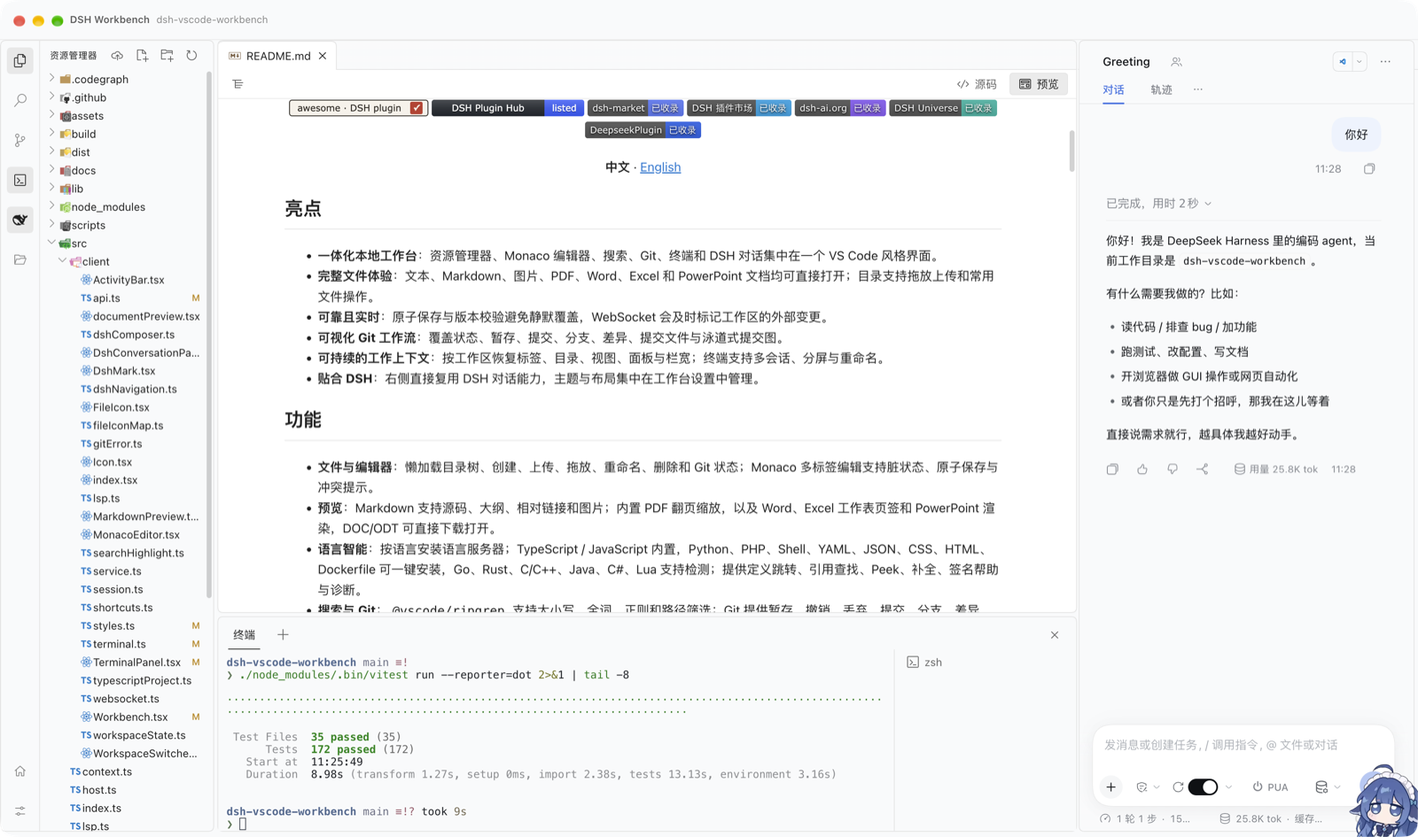
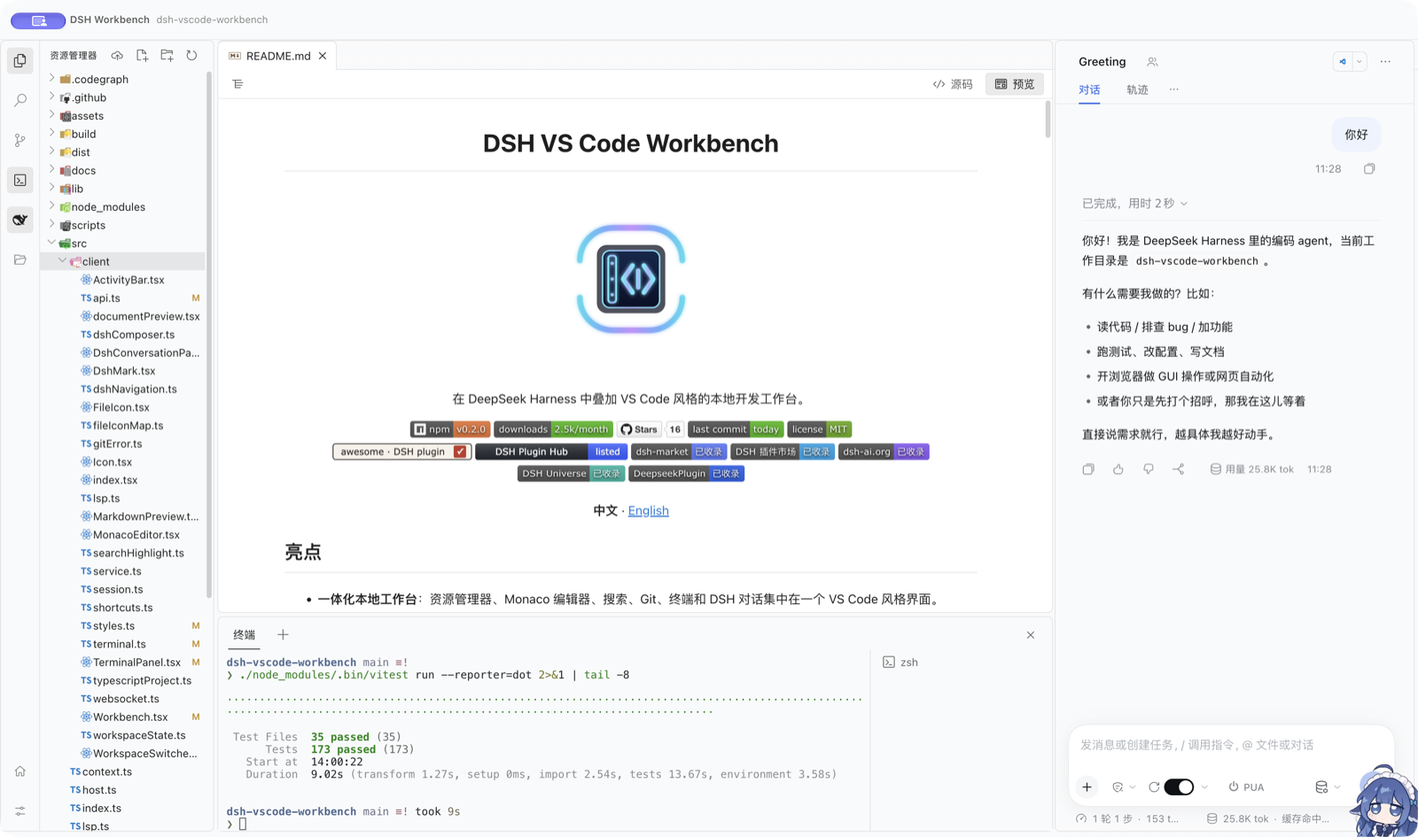
fix(workbench): stabilize session startup and narrow DSH layout
- retry terminal calls while DSH publishes the selected session
- keep the DSH composer, resizer and status bar aligned at narrow widths
- align the workbench and DSH panel with the macOS titlebar
- leave language-server installation to settings
- refresh README screenshots with the file scrolled to the top

diff --git a/src/client/Workbench.tsx b/src/client/Workbench.tsx
@@ -14,7 +14,7 @@ import { DshMark } from './DshMark.tsx'
 import { ActivityBar, normalizeActivityOrder, type ActivityView } from './ActivityBar.tsx'
 import { WorkspaceSwitcher } from './WorkspaceSwitcher.tsx'
 import type { DshNavigation, WorkspaceChoice } from './dshNavigation.ts'
-import { LspManager, languageServerIdForPath, type LspServerStatus } from './lsp.ts'
+import { LspManager, type LspServerStatus } from './lsp.ts'
 import { TS_INTELLISENSE_KEY, disposeTypeScriptProject, indexTypeScriptProject, refreshIndexedFiles, tsIntellisenseEnabled, workspacePathFromModel } from './typescriptProject.ts'
 import { ADD_TO_DSH_SHORTCUT, dshReference, insertIntoDshComposer, isAddToDshShortcut } from './dshComposer.ts'
 import { DocumentPreview, documentPreviewKind, type DocumentPreviewKind } from './documentPreview.tsx'
@@ -28,6 +28,16 @@ interface TreeProps { sessionId: string; path: string; depth: number; expanded: 
 interface CreatingEntry { kind: 'file' | 'directory'; directory: string; value: string; error?: string }
 
 type ResizeDirection = 1 | -1
+
+export const DSH_CHAT_MIN_WIDTH = 440
+export const DSH_CHAT_MAX_WIDTH = 720
+export const DSH_CHAT_DEFAULT_WIDTH = 440
+
+/** Keep persisted or dragged widths inside the range the DSH composer can lay out cleanly. */
+export function clampChatWidth(width: number): number {
+  if (!Number.isFinite(width)) return DSH_CHAT_DEFAULT_WIDTH
+  return Math.max(DSH_CHAT_MIN_WIDTH, Math.min(DSH_CHAT_MAX_WIDTH, Math.round(width)))
+}
 
 /** Calculate a panel width from a horizontal pointer movement. */
 export function resizedPanelWidth(startWidth: number, startX: number, nextX: number, direction: ResizeDirection, min: number, max: number): number {
@@ -414,7 +424,7 @@ const GitView = memo(Git)
 export function Workbench({ service, sessionId, cwd, navigation }: { service: VscodeWorkbench; sessionId?: string; cwd?: string; navigation?: DshNavigation }) {
   const [snapshot, setSnapshot] = useState(() => service.getSnapshot()); const [panels, setPanels] = useState(() => service.getPanels())
   useEffect(() => service.subscribe(() => { setSnapshot(service.getSnapshot()); setPanels(service.getPanels()) }), [service])
-  const [workspace,setWorkspace]=useState<{cwd:string;name:string}>(); const [tabs,setTabs]=useState<Tab[]>([]); const [active,setActive]=useState<string>(); const [error,setError]=useState<string>(); const [panelHeight,setPanelHeight]=useState(260); const [sideWidth,setSideWidth]=useState(210); const [primarySideVisible,setPrimarySideVisible]=useState(()=>localStorage.getItem('dvw:primary-side-visible')!=='closed');const [statusVisible,setStatusVisible]=useState(()=>localStorage.getItem('dvw:status-bar-visible')==='open');const [settingsOpen,setSettingsOpen]=useState(false);const [chatWidth,setChatWidth]=useState(()=>Math.max(400,Math.min(720,Math.round(Number(localStorage.getItem('dvw:dsh-chat-width'))||420))));const [chatVisible,setChatVisible]=useState(()=>localStorage.getItem('dvw:dsh-chat-visible')!=='closed');const [outlineVisible,setOutlineVisible]=useState(()=>localStorage.getItem('dvw:outline')!=='closed');const [tsIntellisense,setTsIntellisense]=useState(tsIntellisenseEnabled);const [tsIndex,setTsIndex]=useState<{state:'idle'|'loading'|'ready'|'error';files?:number;truncated?:boolean;error?:string}>({state:'idle'});const [lspServers,setLspServers]=useState<LspServerStatus[]>([]);const [lspPrompt,setLspPrompt]=useState<{id:string;name:string;builtin:boolean;installable:boolean;hint?:string}>();const dismissedLsp=useRef(new Set<string>());const [lspBusy,setLspBusy]=useState<string>();const [lspError,setLspError]=useState('');const lspManager=useRef<LspManager>();const [fontSize,setFontSize]=useState(()=>{const saved=Math.round(Number(localStorage.getItem('dvw:font-size')));return Number.isFinite(saved)&&saved>=11&&saved<=20?saved:14});const [tabMenu,setTabMenu]=useState<{x:number;y:number;path:string}>()
+  const [workspace,setWorkspace]=useState<{cwd:string;name:string}>(); const [tabs,setTabs]=useState<Tab[]>([]); const [active,setActive]=useState<string>(); const [error,setError]=useState<string>(); const [panelHeight,setPanelHeight]=useState(260); const [sideWidth,setSideWidth]=useState(210); const [primarySideVisible,setPrimarySideVisible]=useState(()=>localStorage.getItem('dvw:primary-side-visible')!=='closed');const [statusVisible,setStatusVisible]=useState(()=>localStorage.getItem('dvw:status-bar-visible')==='open');const [settingsOpen,setSettingsOpen]=useState(false);const [chatWidth,setChatWidth]=useState(()=>clampChatWidth(Number(localStorage.getItem('dvw:dsh-chat-width'))||DSH_CHAT_DEFAULT_WIDTH));const [chatVisible,setChatVisible]=useState(()=>localStorage.getItem('dvw:dsh-chat-visible')!=='closed');const [outlineVisible,setOutlineVisible]=useState(()=>localStorage.getItem('dvw:outline')!=='closed');const [tsIntellisense,setTsIntellisense]=useState(tsIntellisenseEnabled);const [tsIndex,setTsIndex]=useState<{state:'idle'|'loading'|'ready'|'error';files?:number;truncated?:boolean;error?:string}>({state:'idle'});const [lspServers,setLspServers]=useState<LspServerStatus[]>([]);const [lspBusy,setLspBusy]=useState<string>();const [lspError,setLspError]=useState('');const lspManager=useRef<LspManager>();const [fontSize,setFontSize]=useState(()=>{const saved=Math.round(Number(localStorage.getItem('dvw:font-size')));return Number.isFinite(saved)&&saved>=11&&saved<=20?saved:14});const [tabMenu,setTabMenu]=useState<{x:number;y:number;path:string}>()
   const tabsRef=useRef(tabs);tabsRef.current=tabs
   const tabListRef=useRef<HTMLDivElement>(null)
   const workspaceRequests=useRef(new WorkspaceRequestScope());const loadedWorkspaceCwd=useRef<string>();const loadingTabs=useRef(new Map<string, symbol>())
@@ -573,24 +583,6 @@ export function Workbench({ service, sessionId, cwd, navigation }: { service: Vs
   // Stable handlers let the memoised side views skip re-rendering while the editor types.
   const openRef=useRef(open);openRef.current=open
   const openPath=useCallback((path:string,line?:number,column?:number,highlight?:string)=>openRef.current(path,line,column,highlight),[])
-  // Offer to install the language service that handles the file being opened.
-  useEffect(()=>{
-    if(active===undefined||active.startsWith('diff:'))return
-    const id=languageServerIdForPath(active)
-    if(id===undefined||dismissedLsp.current.has(id))return
-    if(id==='typescript'){ if(!tsIntellisense)setLspPrompt({id:'typescript',name:'TypeScript / JavaScript',builtin:true,installable:true}); return }
-    const server=lspServers.find(value=>value.id===id)
-    if(server===undefined||server.installed)return
-    setLspPrompt({id:server.id,name:server.name,builtin:false,installable:server.installable,hint:server.hint})
-  },[active,lspServers,tsIntellisense])
-  const dismissLspPrompt=()=>{ if(lspPrompt!==undefined)dismissedLsp.current.add(lspPrompt.id); setLspPrompt(undefined) }
-  const installLspPrompt=async()=>{
-    const prompt=lspPrompt; if(prompt===undefined)return
-    setLspPrompt(undefined)
-    if(prompt.builtin){setTsIntellisense(true);return}
-    if(!prompt.installable){setSettingsOpen(true);return}
-    await changeLsp(prompt.id,'install')
-  }
   const [switcherOpen,setSwitcherOpen]=useState(false);const [switcherChoices,setSwitcherChoices]=useState<WorkspaceChoice[]>([]);const [switcherBusy,setSwitcherBusy]=useState(false);const [switcherError,setSwitcherError]=useState<string>()
   const openSwitcher=useCallback(()=>{setSwitcherError(undefined);setSwitcherChoices(navigation?.choices(sessionId)??[]);setSwitcherOpen(true)},[navigation,sessionId])
   const switchSession=useCallback((id:string)=>{navigation?.openSession(id);setSwitcherOpen(false)},[navigation])
@@ -685,10 +677,9 @@ export function Workbench({ service, sessionId, cwd, navigation }: { service: Vs
     <WorkbenchTitlebar name={workspace?.name}/>
     <DshConversationPanel visible={chatVisible&&!settingsOpen} width={chatWidth} statusHeight={statusVisible?30:6}/>
     <DshConversationTheme visible={chatVisible} colorScheme={colorScheme} followDsh={false}/>
-    {chatVisible&&<aside className="dvw-chat"><PanelResizer className="dvw-chat-resizer" label="拖动调整 DSH 对话栏宽度" width={chatWidth} min={400} max={720} defaultWidth={420} direction={-1} hideBelow={200} onHide={()=>setChatVisible(false)} onWidth={setChatWidth}/><header className="dvw-chat-head"><span><DshMark/> DSH</span><button className="dvw-icon" title="关闭 DSH 对话栏" onClick={()=>setChatVisible(false)}><Icon name="close"/></button></header><div className="dvw-chat-body"/></aside>}
-    {lspPrompt!==undefined&&<div className="dvw-confirm-backdrop" role="presentation" onMouseDown={dismissLspPrompt}><section className="dvw-confirm" role="alertdialog" aria-modal="true" aria-label="语言未安装" onMouseDown={event=>event.stopPropagation()}><h2>语言未安装</h2><p>{lspPrompt.name} 的语言服务尚未安装。</p><p className="dvw-confirm-note">{lspPrompt.installable?'安装后才能使用转到定义、查找引用、Peek、智能补全和签名帮助。':lspPrompt.hint??'该语言服务器需要手动安装。'}</p><footer><button onClick={dismissLspPrompt}>以后再说</button><button className="dvw-primary-button" onClick={()=>void installLspPrompt()}>{lspPrompt.installable?'安装':'打开设置'}</button></footer></section></div>}
+    {chatVisible&&<aside className="dvw-chat"><PanelResizer className="dvw-chat-resizer" label="拖动调整 DSH 对话栏宽度" width={chatWidth} min={DSH_CHAT_MIN_WIDTH} max={DSH_CHAT_MAX_WIDTH} defaultWidth={DSH_CHAT_DEFAULT_WIDTH} direction={-1} hideBelow={200} onHide={()=>setChatVisible(false)} onWidth={setChatWidth}/><header className="dvw-chat-head"><span><DshMark/> DSH</span><button className="dvw-icon" title="关闭 DSH 对话栏" onClick={()=>setChatVisible(false)}><Icon name="close"/></button></header><div className="dvw-chat-body"/></aside>}
     {switcherOpen&&<WorkspaceSwitcher choices={switcherChoices} activeSessionId={sessionId} unavailable={navigation?.available===false} busy={switcherBusy} error={switcherError} onCreate={()=>void createWorkspace()} onSwitch={switchSession} onOpenWorkspace={enterWorkspace} onClose={()=>setSwitcherOpen(false)}/>}
-    {settingsOpen&&<div className="dvw-settings-backdrop" role="presentation" onMouseDown={()=>setSettingsOpen(false)}><section className="dvw-settings" role="dialog" aria-modal="true" aria-label="工作台设置" onMouseDown={event=>event.stopPropagation()}><header><span><Icon name="settings"/> 工作台设置</span><button className="dvw-icon" title="关闭设置" onClick={()=>setSettingsOpen(false)}><Icon name="close"/></button></header><div className="dvw-settings-body"><section><h3>外观</h3><label>颜色主题</label><div className="dvw-settings-themes">{([['dsh','跟随 DSH'],['dark','深色'],['light','浅色']] as const).map(([value,label])=><button key={value} data-active={theme===value} onClick={()=>setTheme(value)}><span className={`dvw-theme-swatch ${value}`}/><span>{label}</span>{theme===value&&<Icon name="check"/>}</button>)}</div><FontSizeControl value={fontSize} onChange={setFontSize}/></section><section><h3>布局</h3><label className="dvw-setting-check"><input type="checkbox" checked={primarySideVisible} onChange={event=>setPrimarySideVisible(event.target.checked)}/><span>显示左侧视图</span></label><label className="dvw-setting-check"><input type="checkbox" checked={chatVisible} onChange={event=>setChatVisible(event.target.checked)}/><span>显示 DSH 对话栏</span></label><label className="dvw-setting-check"><input type="checkbox" checked={statusVisible} onChange={event=>setStatusVisible(event.target.checked)}/><span>显示底部状态栏</span></label><label className="dvw-setting-range"><span>左侧视图宽度</span><input type="range" min="210" max="640" step="1" value={Math.round(sideWidth)} onChange={event=>setSideWidth(Math.round(Number(event.target.value)))}/><output>{sideWidth}px</output></label><label className="dvw-setting-range"><span>DSH 对话栏宽度</span><input type="range" min="400" max="720" step="1" value={Math.round(chatWidth)} onChange={event=>setChatWidth(Math.max(400,Math.round(Number(event.target.value))))}/><output>{chatWidth}px</output></label></section><section><h3>语言智能</h3><div className="dvw-setting-extension"><div><strong>TypeScript / JavaScript</strong><span>内置 · {tsIntellisense ? tsIndex.state === 'loading' ? '正在索引工作区…' : tsIndex.state === 'error' ? `索引失败：${tsIndex.error}` : tsIndex.state === 'ready' ? `已索引 ${tsIndex.files} 个文件${tsIndex.truncated ? '（已达上限）' : ''}` : '已安装，转到定义、查找引用、Peek、补全、签名帮助' : '点击安装'}</span></div><button className={tsIntellisense?undefined:'dvw-primary-button'} onClick={()=>setTsIntellisense(value=>!value)}>{tsIntellisense?'卸载':'安装'}</button></div>{lspServers.map(server=><div className="dvw-setting-extension" key={server.id}><div><strong>{server.name}</strong><span>{server.installed?'已安装':server.installable?'点击安装':'需要手动安装'}{!server.installed&&server.hint?` · ${server.hint}`:''}</span></div>{server.installable?<button disabled={lspBusy===server.id} className={server.installed?undefined:'dvw-primary-button'} onClick={()=>void changeLsp(server.id,server.installed?'uninstall':'install')}>{lspBusy===server.id?'处理中…':server.installed?'卸载':'安装'}</button>:<button onClick={()=>void refreshLsp()}>重新检测</button>}</div>)}<p className="dvw-setting-hint">每种语言使用该生态里最活跃的语言服务器，安装只写入本插件的私有目录。安装后在编辑器中 F12 转到定义、Shift+F12 查找引用、Alt+F12 速览、Ctrl+Space 补全，并显示诊断。</p>{lspError&&<p className="dvw-setting-hint">{lspError}</p>}</section></div></section></div>}
+    {settingsOpen&&<div className="dvw-settings-backdrop" role="presentation" onMouseDown={()=>setSettingsOpen(false)}><section className="dvw-settings" role="dialog" aria-modal="true" aria-label="工作台设置" onMouseDown={event=>event.stopPropagation()}><header><span><Icon name="settings"/> 工作台设置</span><button className="dvw-icon" title="关闭设置" onClick={()=>setSettingsOpen(false)}><Icon name="close"/></button></header><div className="dvw-settings-body"><section><h3>外观</h3><label>颜色主题</label><div className="dvw-settings-themes">{([['dsh','跟随 DSH'],['dark','深色'],['light','浅色']] as const).map(([value,label])=><button key={value} data-active={theme===value} onClick={()=>setTheme(value)}><span className={`dvw-theme-swatch ${value}`}/><span>{label}</span>{theme===value&&<Icon name="check"/>}</button>)}</div><FontSizeControl value={fontSize} onChange={setFontSize}/></section><section><h3>布局</h3><label className="dvw-setting-check"><input type="checkbox" checked={primarySideVisible} onChange={event=>setPrimarySideVisible(event.target.checked)}/><span>显示左侧视图</span></label><label className="dvw-setting-check"><input type="checkbox" checked={chatVisible} onChange={event=>setChatVisible(event.target.checked)}/><span>显示 DSH 对话栏</span></label><label className="dvw-setting-check"><input type="checkbox" checked={statusVisible} onChange={event=>setStatusVisible(event.target.checked)}/><span>显示底部状态栏</span></label><label className="dvw-setting-range"><span>左侧视图宽度</span><input type="range" min="210" max="640" step="1" value={Math.round(sideWidth)} onChange={event=>setSideWidth(Math.round(Number(event.target.value)))}/><output>{sideWidth}px</output></label><label className="dvw-setting-range"><span>DSH 对话栏宽度</span><input type="range" min={DSH_CHAT_MIN_WIDTH} max={DSH_CHAT_MAX_WIDTH} step="1" value={Math.round(chatWidth)} onChange={event=>setChatWidth(clampChatWidth(Number(event.target.value)))}/><output>{chatWidth}px</output></label></section><section><h3>语言智能</h3><div className="dvw-setting-extension"><div><strong>TypeScript / JavaScript</strong><span>内置 · {tsIntellisense ? tsIndex.state === 'loading' ? '正在索引工作区…' : tsIndex.state === 'error' ? `索引失败：${tsIndex.error}` : tsIndex.state === 'ready' ? `已索引 ${tsIndex.files} 个文件${tsIndex.truncated ? '（已达上限）' : ''}` : '已安装，转到定义、查找引用、Peek、补全、签名帮助' : '点击安装'}</span></div><button className={tsIntellisense?undefined:'dvw-primary-button'} onClick={()=>setTsIntellisense(value=>!value)}>{tsIntellisense?'卸载':'安装'}</button></div>{lspServers.map(server=><div className="dvw-setting-extension" key={server.id}><div><strong>{server.name}</strong><span>{server.installed?'已安装':server.installable?'点击安装':'需要手动安装'}{!server.installed&&server.hint?` · ${server.hint}`:''}</span></div>{server.installable?<button disabled={lspBusy===server.id} className={server.installed?undefined:'dvw-primary-button'} onClick={()=>void changeLsp(server.id,server.installed?'uninstall':'install')}>{lspBusy===server.id?'处理中…':server.installed?'卸载':'安装'}</button>:<button onClick={()=>void refreshLsp()}>重新检测</button>}</div>)}<p className="dvw-setting-hint">每种语言使用该生态里最活跃的语言服务器，安装只写入本插件的私有目录。安装后在编辑器中 F12 转到定义、Shift+F12 查找引用、Alt+F12 速览、Ctrl+Space 补全，并显示诊断。</p>{lspError&&<p className="dvw-setting-hint">{lspError}</p>}</section></div></section></div>}
           <ActivityBar
         views={[
           {id:'explorer',label:'资源管理器',icon:<Icon name="files"/>,active:primarySideVisible&&snapshot.view==='explorer',onActivate:()=>selectView('explorer')},

diff --git a/src/client/styles.ts b/src/client/styles.ts
@@ -7,6 +7,7 @@ const CSS = String.raw`
 .dvw-overlay{--dvw-side-width:210px;--dvw-graph-ref:#3794ff;--dvw-base:var(--dsw-alias-bg-base,#181818);--dvw-surface-1:var(--dsw-alias-bg-layer-1,#1e1e1e);--dvw-surface-2:var(--dsw-alias-bg-layer-2,#252526);--dvw-surface-3:var(--dsw-alias-bg-layer-3,#2d2d30);--dvw-side:var(--dvw-surface-1);--dvw-tab-active:var(--dvw-surface-2);--dvw-gutter:var(--dvw-base);--dvw-text:var(--dsw-alias-label-primary,#ccc);--dvw-text-2:var(--dsw-alias-label-secondary,#aaa);--dvw-text-3:var(--dsw-alias-label-tertiary,#858585);--dvw-border:var(--dsw-alias-border-l2,#333);--dvw-border-soft:var(--dsw-alias-border-l3,#292929);--dvw-hover:var(--dsw-alias-interactive-bg-hover,rgba(255,255,255,.08));--dvw-active:var(--dsw-alias-interactive-bg-active,rgba(255,255,255,.14));--dvw-accent:var(--dsw-alias-state-business-primary,#3b82f6);--dvw-error:var(--dsw-alias-state-error-primary,#f48771);--dvw-success:var(--dsw-alias-state-success-primary,#73c991);--dvw-warn:var(--dsw-alias-state-warn-primary,#d7ba7d);position:absolute;inset:0;z-index:100;display:grid;grid-template-columns:48px var(--dvw-side-width) minmax(0,1fr);grid-template-rows:minmax(0,1fr) auto 30px;box-sizing:border-box;padding-top:calc(var(--dvw-titlebar-height) + 6px);background:var(--dvw-gutter);color:var(--dvw-text);pointer-events:auto;font:13px/1.4 var(--dsw-font-family,-apple-system,BlinkMacSystemFont,"Segoe UI",sans-serif);overflow:hidden;color-scheme:light}
 .dvw-titlebar{display:none}html[data-platform=darwin] .dvw-titlebar{position:absolute;top:0;right:0;left:0;z-index:6;display:flex;align-items:center;gap:8px;height:var(--dvw-titlebar-height);padding:0 12px 0 84px;border-bottom:1px solid var(--dvw-border-soft);background:var(--dvw-base);color:var(--dvw-text-3);font-size:12px;-webkit-app-region:drag;user-select:none}.dvw-titlebar strong{flex:none;font-weight:600;color:var(--dvw-text-2)}.dvw-titlebar span{min-width:0;overflow:hidden;text-overflow:ellipsis;white-space:nowrap}
 html[data-windows-titlebar] .dvw-overlay{top:var(--dvw-titlebar-height);padding-top:6px}
+html[data-platform=darwin] .dvw-overlay{padding-top:var(--dvw-titlebar-height)}
 body[data-ds-dark-theme] .dvw-overlay,.dvw-overlay[data-dvw-theme=dark]{color-scheme:dark}
 .dvw-overlay[data-dvw-theme=dark]{--dvw-base:#191a1b;--dvw-surface-1:#121314;--dvw-surface-2:#202122;--dvw-surface-3:#252526;--dvw-side:#191a1b;--dvw-tab-active:#2a2b2c;--dvw-gutter:#191a1b;--dvw-graph-ref:#3794ff;--dvw-text:#bfbfbf;--dvw-text-2:#8c8c8c;--dvw-text-3:#6e6e6e;--dvw-border:#2a2b2c;--dvw-border-soft:#242526;--dvw-hover:#ffffff12;--dvw-active:#ffffff1f;--dvw-accent:#307e9f;--dvw-error:#e06c75;--dvw-success:#98c379;--dvw-warn:#e5c07b}
 .dvw-overlay[data-dvw-theme=light]{--dvw-base:#f9fafb;--dvw-surface-1:#fff;--dvw-surface-2:#fff;--dvw-surface-3:#fff;--dvw-side:#f9fafb;--dvw-tab-active:#e8e8e8;--dvw-gutter:#f9fafb;--dvw-graph-ref:#0063d3;--dvw-text:#1f1f1f;--dvw-text-2:#616161;--dvw-text-3:#8a8a8a;--dvw-border:#e5e5e5;--dvw-border-soft:#ececec;--dvw-hover:#0000000d;--dvw-active:#00000014;--dvw-accent:#0078d4;--dvw-error:#e51400;--dvw-success:#388a34;--dvw-warn:#bf8803;color-scheme:light}
@@ -42,6 +43,7 @@ body[data-ds-dark-theme] .dvw-overlay,.dvw-overlay[data-dvw-theme=dark]{color-sc
 .dvw-side-resizer::after,.dvw-chat-resizer::after{background:transparent;left:3px;width:4px}
 .dvw-side-resizer:hover::after,.dvw-side-resizer:focus-visible::after,.dvw-side-resizer[data-dragging=true]::after,.dvw-chat-resizer:hover::after,.dvw-chat-resizer:focus-visible::after,.dvw-chat-resizer[data-dragging=true]::after{background:var(--dvw-accent)}
 [data-dvw-conversation-panel]{position:fixed!important;top:calc(var(--dvw-titlebar-height) + 6px)!important;right:4px!important;bottom:var(--dvw-status-height,30px)!important;left:auto!important;width:calc(var(--dvw-chat-width) - 8px)!important;height:auto!important;min-width:0!important;z-index:21!important;border:1px solid var(--dsw-alias-border-l2)!important;border-radius:8px!important;overflow:hidden!important;box-shadow:none!important}
+html[data-platform=darwin] [data-dvw-conversation-panel]{top:var(--dvw-titlebar-height)!important}
 body[data-dvw-palette=light] [data-dvw-conversation-panel]{--dsw-alias-bg-base:#f9fafb;--dsw-specific-sidebar-fill:#f9fafb;--dsw-alias-border-l2:#e5e5e5;background:#f9fafb!important}body[data-dvw-palette=dark] [data-dvw-conversation-panel]{--dsw-alias-bg-base:#191a1b;--dsw-specific-sidebar-fill:#191a1b;--dsw-alias-bg-layer-1:#202122;--dsw-alias-bg-layer-2:#252526;--dsw-alias-bg-layer-3:#2a2b2c;--dsw-alias-label-primary:#bfbfbf;--dsw-alias-label-secondary:#8c8c8c;--dsw-alias-label-tertiary:#6e6e6e;--dsw-alias-border-l2:#2a2b2c;--dsw-alias-border-l3:#303132;--dsw-alias-interactive-bg-hover:#ffffff12;--dsw-alias-interactive-bg-active:#ffffff1f}
 body[data-dvw-workbench-active] [data-sidebar-right-expand],body[data-dvw-conversation-active] [data-sidebar-right-expand]{display:none!important}
 body[data-dvw-workbench-active] [data-shell-leading]{display:none!important}
@@ -61,7 +63,7 @@ body[data-dvw-workbench-active] [data-sidebar-toggle]{display:none!important}
 .dvw-settings-body{overflow:auto;padding:8px 20px 20px}.dvw-settings-body section+section{margin-top:20px;padding-top:12px;border-top:1px solid var(--dvw-border-soft)}.dvw-settings-body h3{margin:8px 0 12px;font-size:13px}.dvw-settings-body>section>label:not(.dvw-setting-check):not(.dvw-setting-range){display:block;margin-bottom:7px;color:var(--dvw-text-2);font-size:12px}
 .dvw-settings-themes{display:grid;grid-template-columns:repeat(3,1fr);gap:8px}.dvw-settings-themes button{height:56px;display:grid;grid-template-columns:28px 1fr 18px;align-items:center;gap:7px;padding:0 9px;border:1px solid var(--dvw-border);border-radius:7px;background:var(--dvw-base);color:var(--dvw-text);text-align:left;cursor:pointer}.dvw-settings-themes button:hover{background:var(--dvw-hover)}.dvw-settings-themes button[data-active=true]{border-color:var(--dvw-accent);background:color-mix(in srgb,var(--dvw-accent) 10%,var(--dvw-base))}
 .dvw-setting-check{height:36px;display:flex;align-items:center;gap:9px;border-bottom:1px solid var(--dvw-border-soft);cursor:pointer}.dvw-setting-check input{accent-color:var(--dvw-accent)}.dvw-setting-range{display:grid;grid-template-columns:145px 1fr 52px;align-items:center;gap:10px;min-height:42px}.dvw-setting-range input{accent-color:var(--dvw-accent)}.dvw-setting-range output{text-align:right;color:var(--dvw-text-3);font-variant-numeric:tabular-nums}
-@media(max-width:900px){.dvw-overlay[data-dvw-chat=true]{grid-template-columns:44px min(210px,var(--dvw-side-width)) minmax(0,1fr) min(400px,var(--dvw-chat-width))}[data-dvw-conversation-panel]{width:min(400px,var(--dvw-chat-width))!important}}
+@media(max-width:900px){.dvw-overlay[data-dvw-chat=true]{--dvw-chat-effective:max(440px,min(var(--dvw-chat-width),calc(100vw - 254px)));grid-template-columns:44px min(210px,var(--dvw-side-width),max(0px,calc(100vw - 164px - var(--dvw-chat-effective)))) minmax(0,1fr) var(--dvw-chat-effective)}.dvw-overlay[data-dvw-chat=true] .dvw-status{padding-right:calc(var(--dvw-chat-effective) + 8px)}.dvw-chat-resizer{right:calc(var(--dvw-chat-effective) - 5px)}[data-dvw-conversation-panel]{width:calc(max(440px,min(var(--dvw-chat-width),calc(100vw - 254px))) - 8px)!important}}
 .dvw-setting-textarea{width:100%;min-height:84px;resize:vertical;padding:8px 10px;border:1px solid var(--dvw-border);border-radius:6px;background:var(--dvw-base);color:var(--dvw-text);font:12px/1.5 ui-monospace,SFMono-Regular,Menlo,Consolas,monospace}
 .dvw-setting-textarea:focus{outline:none;border-color:var(--dvw-accent)}
 .dvw-setting-extension{display:flex;align-items:center;gap:12px;padding:10px 12px;border:1px solid var(--dvw-border);border-radius:7px;background:var(--dvw-base)}.dvw-setting-extension>div{min-width:0;flex:1;display:flex;flex-direction:column;gap:2px}.dvw-setting-extension span{color:var(--dvw-text-3);font-size:12px}.dvw-setting-extension button{height:26px;padding:0 14px;border:1px solid var(--dvw-border);border-radius:4px;background:transparent;color:var(--dvw-text);font:inherit;cursor:pointer}.dvw-setting-extension button:hover{background:var(--dvw-hover)}.dvw-setting-extension button.dvw-primary-button{border-color:var(--dvw-accent);background:var(--dvw-accent);color:#fff}.dvw-setting-hint{margin:8px 0 0;color:var(--dvw-text-3);font-size:11px;line-height:1.5}

diff --git a/src/client/terminal.ts b/src/client/terminal.ts
@@ -1,4 +1,5 @@
 import type { TerminalInfo } from '../terminal.ts'
+import { ApiError, withSessionRetry } from './api.ts'
 import { websocketUrl } from './websocket.ts'
 
 export interface TerminalConnection {
@@ -13,7 +14,7 @@ export interface TerminalWorkspaceSnapshot { terminals: readonly TerminalInfo[];
 
 /** Browser client for the workbench's local terminal transport. */
 export interface TerminalWorkspace {
-  refresh(): Promise<void>
+  refresh(): Promise<boolean>
   create(title?: string): Promise<TerminalInfo>
   close(id: string): Promise<void>
   rename(id: string, title: string): Promise<void>
@@ -25,9 +26,9 @@ export interface TerminalWorkspace {
 async function request<T>(method: string, body: Record<string, unknown>): Promise<T> {
   const response = await fetch(`/dsh-vscode-terminal/api/${method}`, { method: 'POST', headers: { 'content-type': 'application/json' }, body: JSON.stringify(body) })
   const text = await response.text()
-  let answer: { ok?: boolean; value?: T; error?: { message?: string } }
-  try { answer = JSON.parse(text) as { ok?: boolean; value?: T; error?: { message?: string } } } catch { throw new Error(`terminal request returned invalid JSON (${response.status})`) }
-  if (!response.ok || answer.ok !== true) throw new Error(answer.error?.message ?? 'terminal request failed')
+  let answer: { ok?: boolean; value?: T; error?: { code?: string; message?: string } }
+  try { answer = JSON.parse(text) as { ok?: boolean; value?: T; error?: { code?: string; message?: string } } } catch { throw new Error(`terminal request returned invalid JSON (${response.status})`) }
+  if (!response.ok || answer.ok !== true) throw new ApiError(answer.error?.code ?? 'terminal-request-failed', answer.error?.message ?? 'terminal request failed')
   return answer.value as T
 }
 
@@ -75,18 +76,23 @@ export class TerminalWorkspaceController implements TerminalWorkspace {
 
   constructor(private readonly sessionId: string) {}
 
-  async refresh(): Promise<void> {
+  async refresh(): Promise<boolean> {
     this.set({ ...this.snapshot, loading: true, error: undefined })
-    try { this.set({ terminals: await request<TerminalInfo[]>('list', { sessionId: this.sessionId }), loading: false }) }
-    catch (error) { this.set({ ...this.snapshot, loading: false, error: error instanceof Error ? error.message : String(error) }) }
+    try {
+      this.set({ terminals: await withSessionRetry(() => request<TerminalInfo[]>('list', { sessionId: this.sessionId })), loading: false })
+      return true
+    } catch (error) {
+      this.set({ ...this.snapshot, loading: false, error: error instanceof Error ? error.message : String(error) })
+      return false
+    }
   }
 
   async create(title?: string): Promise<TerminalInfo> {
-    try { const terminal = await request<TerminalInfo>('create', { sessionId: this.sessionId, ...(title === undefined ? {} : { title }) }); await this.refresh(); return terminal }
+    try { const terminal = await withSessionRetry(() => request<TerminalInfo>('create', { sessionId: this.sessionId, ...(title === undefined ? {} : { title }) })); await this.refresh(); return terminal }
     catch (error) { this.set({ ...this.snapshot, loading: false, error: error instanceof Error ? error.message : String(error) }); throw error }
   }
-  async close(id: string): Promise<void> { await request('close', { sessionId: this.sessionId, id }); await this.refresh() }
-  async rename(id: string, title: string): Promise<void> { await request('rename', { sessionId: this.sessionId, id, title }); await this.refresh() }
+  async close(id: string): Promise<void> { await withSessionRetry(() => request('close', { sessionId: this.sessionId, id })); await this.refresh() }
+  async rename(id: string, title: string): Promise<void> { await withSessionRetry(() => request('rename', { sessionId: this.sessionId, id, title })); await this.refresh() }
   connect(id: string): TerminalConnection { return new SocketConnection(this.sessionId, id) }
   getSnapshot(): TerminalWorkspaceSnapshot { return this.snapshot }
   subscribe(listener: () => void): () => void { this.listeners.add(listener); return () => this.listeners.delete(listener) }

diff --git a/tests/panel-resize.spec.ts b/tests/panel-resize.spec.ts
@@ -1,6 +1,6 @@
 import { describe, expect, it } from 'vitest'
 import { readFileSync } from 'node:fs'
-import { resizedPanelWidth } from '../src/client/Workbench.tsx'
+import { DSH_CHAT_DEFAULT_WIDTH, DSH_CHAT_MAX_WIDTH, DSH_CHAT_MIN_WIDTH, clampChatWidth, resizedPanelWidth } from '../src/client/Workbench.tsx'
 
 describe('resizedPanelWidth', () => {
   it('grows the source control panel when its right edge moves right', () => {
@@ -8,12 +8,21 @@ describe('resizedPanelWidth', () => {
   })
 
   it('grows the DSH panel when its left edge moves left', () => {
-    expect(resizedPanelWidth(420, 500, 450, -1, 400, 720)).toBe(470)
+    expect(resizedPanelWidth(440, 500, 450, -1, 440, 720)).toBe(490)
   })
 
   it('holds at either limit while the pointer continues past it', () => {
     expect(resizedPanelWidth(210, 100, 0, 1, 210, 640)).toBe(210)
-    expect(resizedPanelWidth(420, 500, -500, -1, 400, 720)).toBe(720)
+    expect(resizedPanelWidth(440, 500, -500, -1, 440, 720)).toBe(720)
+  })
+
+  it('keeps the DSH panel wide enough for the official composer toolbar', () => {
+    expect(DSH_CHAT_MIN_WIDTH).toBe(440)
+    expect(DSH_CHAT_DEFAULT_WIDTH).toBe(DSH_CHAT_MIN_WIDTH)
+    expect(clampChatWidth(400)).toBe(DSH_CHAT_MIN_WIDTH)
+    expect(clampChatWidth(510.6)).toBe(511)
+    expect(clampChatWidth(900)).toBe(DSH_CHAT_MAX_WIDTH)
+    expect(clampChatWidth(Number.NaN)).toBe(DSH_CHAT_DEFAULT_WIDTH)
   })
 
   it('uses matching narrow visual lines with an accessible drag target', () => {
@@ -26,13 +35,23 @@ describe('resizedPanelWidth', () => {
     expect(workbench).toContain('if (hideBelow !== undefined && nextWidth < hideBelow) { onHide?.(); return }')
     expect(workbench).toContain('hideBelow={200} onHide={()=>setChatVisible(false)}')
     expect(workbench).toContain('hideBelow={105} onHide={()=>setPrimarySideVisible(false)}')
+    expect(workbench).toContain('min={DSH_CHAT_MIN_WIDTH} max={DSH_CHAT_MAX_WIDTH} defaultWidth={DSH_CHAT_DEFAULT_WIDTH}')
+    expect(workbench).toContain('<input type="range" min={DSH_CHAT_MIN_WIDTH} max={DSH_CHAT_MAX_WIDTH}')
     expect(styles).toContain('.dvw-chat-resizer{position:fixed;top:var(--dvw-titlebar-height);right:calc(var(--dvw-chat-width) - 5px);z-index:22}')
+    expect(styles).toContain('--dvw-chat-effective:max(440px,min(var(--dvw-chat-width),calc(100vw - 254px)))')
+    expect(styles).toContain('grid-template-columns:44px min(210px,var(--dvw-side-width),max(0px,calc(100vw - 164px - var(--dvw-chat-effective)))) minmax(0,1fr) var(--dvw-chat-effective)')
+    expect(styles).toContain('.dvw-overlay[data-dvw-chat=true] .dvw-status{padding-right:calc(var(--dvw-chat-effective) + 8px)}')
+    expect(styles).toContain('.dvw-chat-resizer{right:calc(var(--dvw-chat-effective) - 5px)}')
+    expect(styles).toContain('[data-dvw-conversation-panel]{width:calc(max(440px,min(var(--dvw-chat-width),calc(100vw - 254px))) - 8px)!important}')
+    expect(styles).not.toContain('min(400px,var(--dvw-chat-width))')
     expect(styles).toContain('html[data-platform=darwin] .dvw-titlebar{')
     expect(styles).toContain('html[data-windows-titlebar]{--dvw-titlebar-height:var(--dsh-frame-top-clearance,40px)}')
     expect(styles).toContain('html[data-windows-titlebar] .dvw-overlay{top:var(--dvw-titlebar-height);padding-top:6px}')
+    expect(styles).toContain('html[data-platform=darwin] .dvw-overlay{padding-top:var(--dvw-titlebar-height)}')
     expect(styles).toContain('-webkit-app-region:drag')
     expect(styles).toContain('padding-top:calc(var(--dvw-titlebar-height) + 6px)')
     expect(styles).toContain('[data-dvw-conversation-panel]{position:fixed!important;top:calc(var(--dvw-titlebar-height) + 6px)!important')
+    expect(styles).toContain('html[data-platform=darwin] [data-dvw-conversation-panel]{top:var(--dvw-titlebar-height)!important}')
     expect(styles).toContain('body[data-dvw-conversation-active] [data-sidebar-right-expand]{display:none!important}')
     expect(styles).toContain('body[data-dvw-workbench-active] [data-shell-leading]{display:none!important}')
     expect(styles).toContain('body[data-dvw-workbench-active] [data-sidebar-toggle]{display:none!important}')

diff --git a/tests/terminal.spec.ts b/tests/terminal.spec.ts
@@ -1,9 +1,15 @@
 import { chmod, mkdtemp, rm, stat, writeFile } from 'node:fs/promises'
 import { tmpdir } from 'node:os'
 import { join } from 'node:path'
-import { describe, expect, it } from 'vitest'
-import { isTerminalProtocolReply } from '../src/client/terminal.ts'
+import { afterEach, describe, expect, it, vi } from 'vitest'
+import { isTerminalProtocolReply, TerminalWorkspaceController } from '../src/client/terminal.ts'
 import { defaultTerminalShell, ensureExecutable, sanitizedTerminalEnv } from '../src/terminal.ts'
+
+afterEach(() => vi.unstubAllGlobals())
+
+function terminalAnswer(ok: boolean, value?: unknown, error?: { code: string; message: string }) {
+  return { ok, text: async () => JSON.stringify(ok ? { ok: true, value } : { ok: false, error }) } as unknown as Response
+}
 
 describe('terminal host settings', () => {
   it('keeps normal shell variables while removing credentials', () => {
@@ -34,5 +40,51 @@ describe('terminal host settings', () => {
 
   it('does not fail plugin startup when a native helper is unavailable', () => {
     expect(ensureExecutable(join(tmpdir(), 'dsh-workbench-missing-spawn-helper'))).toBe(process.platform === 'win32')
+  })
+})
+
+describe('terminal workspace session retry', () => {
+  it('waits for the selected session before listing terminals', async () => {
+    let calls = 0
+    vi.stubGlobal('fetch', async () => {
+      calls++
+      return calls === 1
+        ? terminalAnswer(false, undefined, { code: 'session-not-found', message: 'session not found' })
+        : terminalAnswer(true, [])
+    })
+    const workspace = new TerminalWorkspaceController('s1')
+    await expect(workspace.refresh()).resolves.toBe(true)
+    expect(calls).toBe(2)
+    expect(workspace.getSnapshot()).toEqual({ terminals: [], loading: false })
+  })
+
+  it('surfaces unrelated terminal failures without retrying', async () => {
+    let calls = 0
+    vi.stubGlobal('fetch', async () => {
+      calls++
+      return terminalAnswer(false, undefined, { code: 'internal', message: 'boom' })
+    })
+    const workspace = new TerminalWorkspaceController('s1')
+    await expect(workspace.refresh()).resolves.toBe(false)
+    expect(calls).toBe(1)
+    expect(workspace.getSnapshot().error).toBe('boom')
+  })
+
+  it('retries creating a terminal while the session is being published', async () => {
+    const terminal = { id: 't1', title: 'zsh', cwd: '/workspace', running: true, sequence: 0 }
+    let createCalls = 0
+    vi.stubGlobal('fetch', async (url: string) => {
+      if (String(url).endsWith('/create')) {
+        createCalls++
+        return createCalls === 1
+          ? terminalAnswer(false, undefined, { code: 'session-not-found', message: 'session not found' })
+          : terminalAnswer(true, terminal)
+      }
+      return terminalAnswer(true, [terminal])
+    })
+    const workspace = new TerminalWorkspaceController('s1')
+    await expect(workspace.create()).resolves.toEqual(terminal)
+    expect(createCalls).toBe(2)
+    expect(workspace.getSnapshot().terminals).toEqual([terminal])
   })
 })

diff --git a/tests/theme.spec.ts b/tests/theme.spec.ts
@@ -135,12 +135,12 @@ describe('workbench dark theme', () => {
     expect(styles).toContain('.dvw-overlay ::-webkit-scrollbar-thumb{background:color-mix(in srgb,var(--dvw-text) 20%,transparent);border:2px solid transparent;background-clip:padding-box;border-radius:6px}')
   })
 
-  it('prompts to install a missing language service', () => {
+  it('leaves language service installation to settings', () => {
     const workbench = read('src/client/Workbench.tsx')
-    expect(workbench).toContain('<h2>语言未安装</h2>')
-    expect(workbench).toContain('以后再说')
-    expect(workbench).toContain("languageServerIdForPath(active)")
-    expect(workbench).toContain("changeLsp(prompt.id,'install')")
+    expect(workbench).not.toContain('<h2>语言未安装</h2>')
+    expect(workbench).not.toContain('以后再说')
+    expect(workbench).not.toContain('languageServerIdForPath(active)')
+    expect(workbench).toContain('<h3>语言智能</h3>')
   })
 
   it('lists TypeScript with the other languages in one block', () => {

diff --git a/src/client/TerminalPanel.tsx b/src/client/TerminalPanel.tsx
@@ -59,7 +59,7 @@ export function TerminalPanel({ sessionId, colorScheme }: BottomPanelProps) {
   const [sideWidth, setSideWidth] = useState(220)
   useEffect(() => {
     let cancelled = false
-    void workspace.refresh().then(() => { if (!cancelled && workspace.getSnapshot().terminals.length === 0) void workspace.create().then(value => { if (!cancelled) setActive(value.id) }).catch(() => undefined) }).catch(() => undefined)
+    void workspace.refresh().then(ready => { if (!cancelled && ready && workspace.getSnapshot().terminals.length === 0) void workspace.create().then(value => { if (!cancelled) setActive(value.id) }).catch(() => undefined) })
     return () => { cancelled = true }
   }, [workspace])
   useEffect(() => { if (snapshot.terminals.length > 0 && (!active || !snapshot.terminals.some(value => value.id === active))) setActive(snapshot.terminals[0]?.id) }, [snapshot.terminals, active])

diff --git a/src/client/api.ts b/src/client/api.ts
@@ -27,8 +27,13 @@ async function request<T>(method: string, body: Record<string, unknown>, signal?
 }
 
 export async function api<T>(method: string, body: Record<string, unknown>, signal?: AbortSignal): Promise<T> {
+  return withSessionRetry(() => request<T>(method, body, signal), signal)
+}
+
+/** Retry an operation while DSH is still publishing the selected session. */
+export async function withSessionRetry<T>(operation: () => Promise<T>, signal?: AbortSignal): Promise<T> {
   for (let attempt = 0; ; attempt++) {
-    try { return await request<T>(method, body, signal) }
+    try { return await operation() }
     catch (error) {
       const delay = sessionRetryDelay(error, attempt)
       if (delay === undefined) throw error
